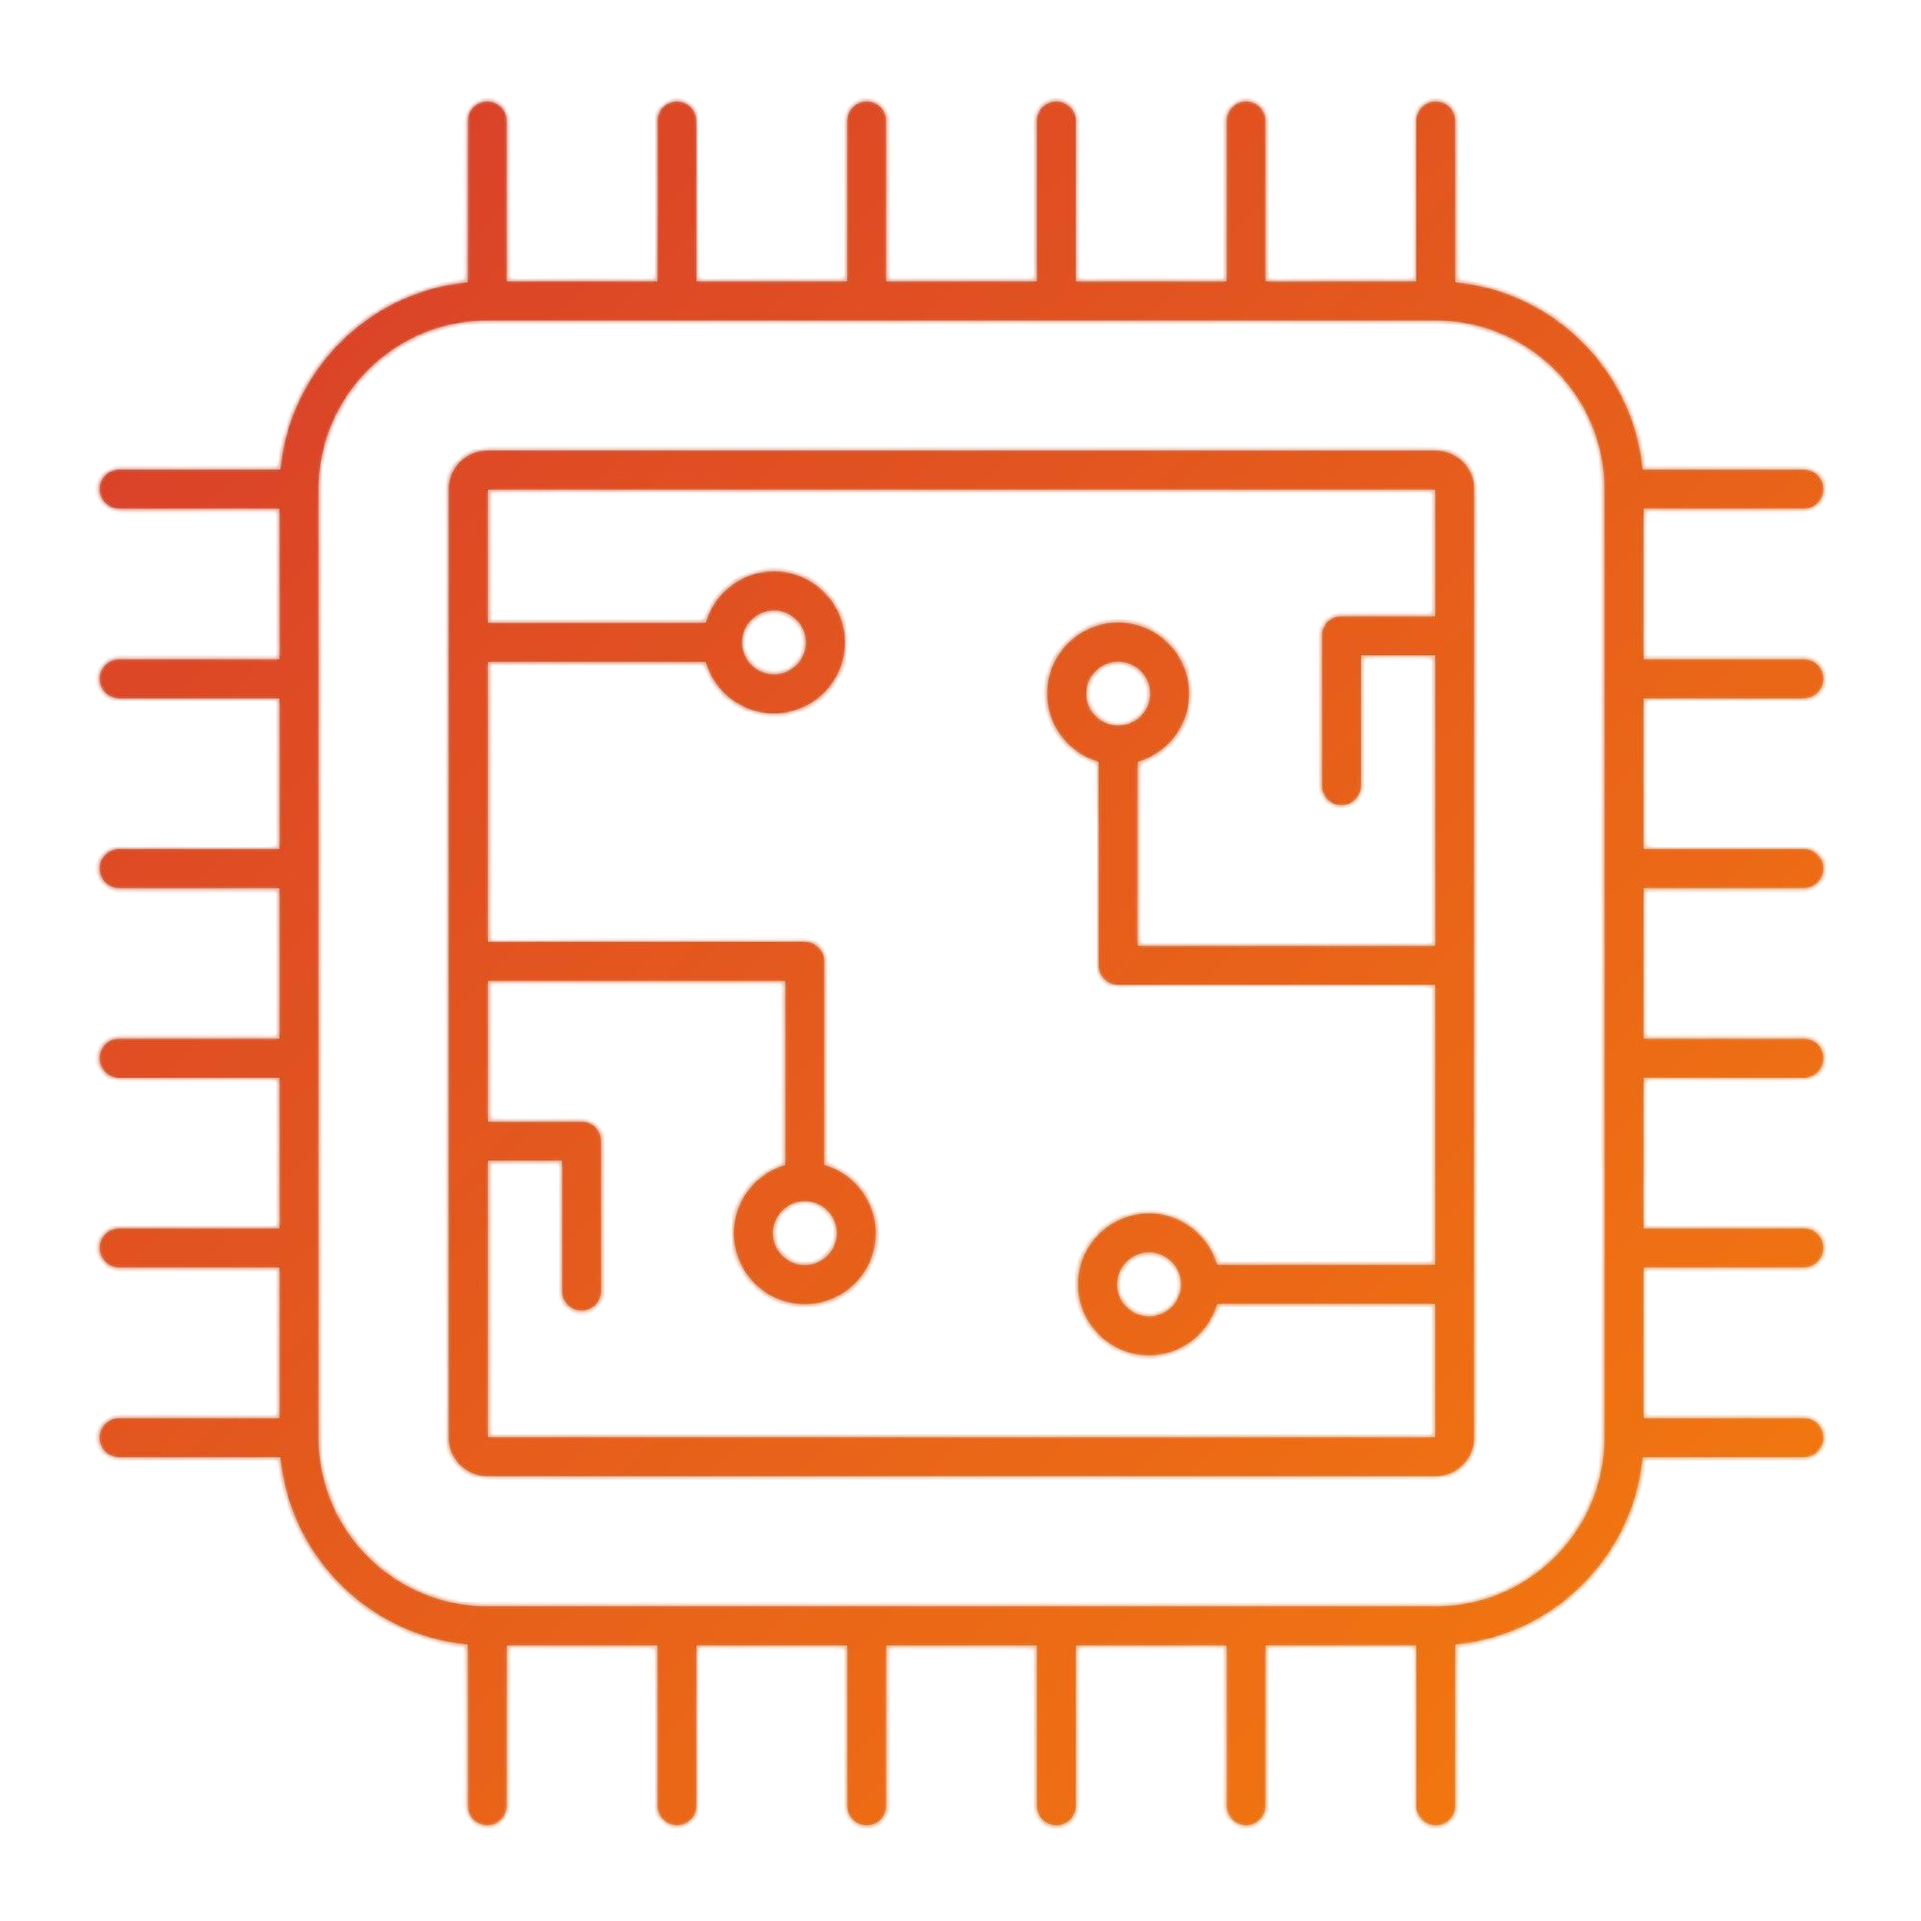
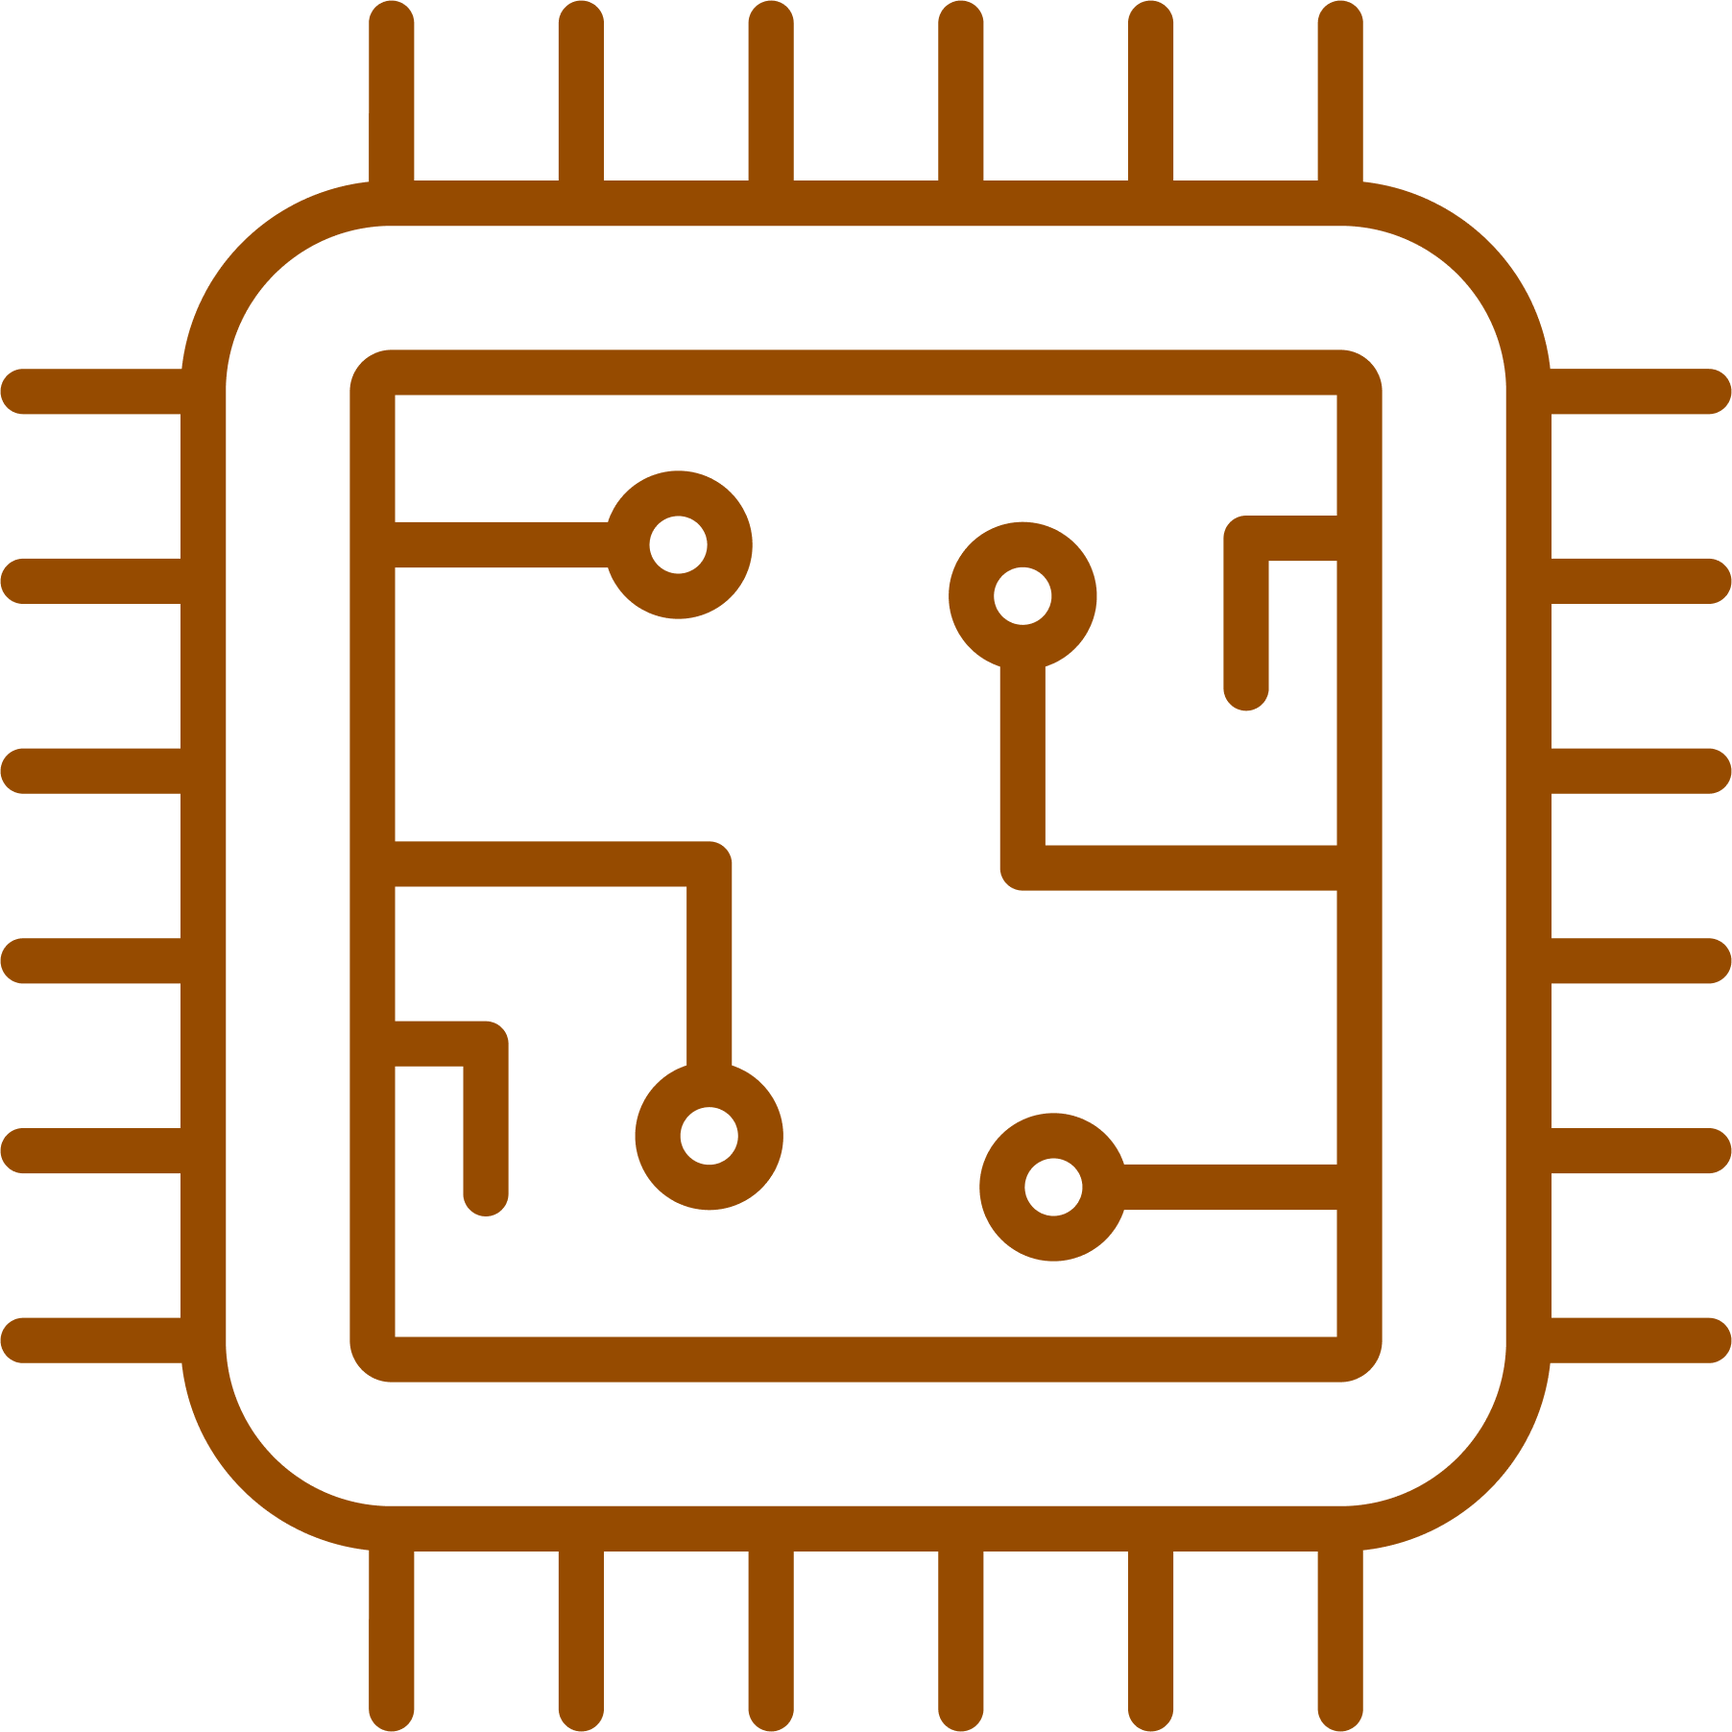
five commit

diff --git a/src/app/compoents/Offering.jsx b/src/app/compoents/Offering.jsx
@@ -10,14 +10,18 @@ import tools from "../asserts/tools.png"
 const Offering = () => {
   return (
     <div className='container'>
- 
-    <h1 className='text-center'>Our Offering</h1>
+      <center>
+    <h1 className='text-center' style={{borderBottom:'3px solid #964B00', width:'300px'}}>Our Innovations</h1>
+    </center>
+    <br/>
+    <br/>
        
         <div className='grid-container-home'> 
             <div className='grid-items-home'>
               <div>
+                <br/>
                 <Image className='mx-auto d-block' src={Embedded} style={{width:'30%', height:'auto'}}/>
-              <h5 className='text-center'>Embedded Product</h5>
+              <h5 className='text-center p-3'>Embedded Product</h5>
 
               <ul>
   <li>Intelligence Algorithm development</li>
@@ -28,7 +32,6 @@ const Offering = () => {
 <div class="d-flex justify-content-center">
   <button class="navbtn" type="submit">&nbsp;Know More&nbsp;</button>
 </div>
-
               </div>
               </div>
 
@@ -36,8 +39,9 @@ const Offering = () => {
 
             <div className='grid-items-home'>
               <div>
+                <br/>
               <Image className='mx-auto d-block' src={datascience} style={{width:'30%', height:'auto'}}/>
-              <h5 className='text-center'>Data Science and Analytics</h5>
+              <h5 className='text-center p-3'>Data Science and Analytics</h5>
               <ul>
   <li>Data Acquisition & Ingestion</li>
   <li>Data Modeling, Staging and Warehousing</li>
@@ -52,8 +56,9 @@ const Offering = () => {
               </div>
             <div className='grid-items-home'>
               <div>
+                <br/>
               <Image className='mx-auto d-block' src={ai} style={{width:'30%', height:'auto'}}/>
-              <h5 className='text-center'>AI and Computer Vision</h5>
+              <h5 className='text-center p-3'>AI and Computer Vision</h5>
               <ul>
   <li>Data Acquisition & Ingestion</li>
   <li>Data Modeling, Staging and Warehousing</li>
@@ -69,7 +74,8 @@ const Offering = () => {
               </div>
             <div className='grid-items-home'>
               <div>
-              <Image className='mx-auto d-block' src={tools} style={{width:'30%', height:'auto'}}/>
+                <br/>
+              <Image className='mx-auto d-block p-3' src={tools} style={{width:'30%', height:'auto'}}/>
               <h5 className='text-center'>Tools and Automation </h5>
               <ul>
   <li>Data Management Framework</li>
@@ -86,7 +92,8 @@ const Offering = () => {
               </div>
             <div className='grid-items-home'>
               <div>
-              <Image className='mx-auto d-block' src={verification} style={{width:'30%', height:'auto'}}/>
+                <br/>
+              <Image className='mx-auto d-block p-3' src={verification} style={{width:'30%', height:'auto'}}/>
               <h5 className='text-center'>Verification and validation</h5>
               <ul>
   <li>Test bench development</li>
@@ -104,8 +111,9 @@ const Offering = () => {
               </div>
             <div className='grid-items-home'> 
               <div>
+                <br/>
               <Image className='mx-auto d-block' src={title} style={{width:'30%', height:'auto'}}/>
-              <h5 className='text-center'>mortgage / title insurance service</h5>
+              <h5 className='text-center p-3'>mortgage / title insurance service</h5>
 
               <ul>
   <li>Home loan origination and processing</li>

diff --git a/src/app/compoents/Blogs.jsx b/src/app/compoents/Blogs.jsx
@@ -9,6 +9,7 @@ const Blogs = () => {
   const [blogs, setBlogs] = useState([]);
   const [loading, setLoading] = useState(true);
   const [error, setError] = useState(null);
+  let sliderRef = React.createRef();
 
   useEffect(() => {
     const fetchBlogs = async () => {
@@ -33,49 +34,74 @@ const Blogs = () => {
     return <p>Error: {error}</p>;
   }
 
-  const NextArrow = (props) => {
-    const { onClick } = props;
+  const NextArrow = () => {
     return (
-      <div className="arrow next" onClick={onClick}>
-        <MdKeyboardArrowRight />
-      </div>
+      <MdKeyboardArrowRight
+        className="slick-arrow"
+        style={{ display: 'block', color: '#964b00', fontSize: '40px' }}
+        onClick={() => sliderRef.slickNext()}
+      />
     );
   };
 
-  const PrevArrow = (props) => {
-    const { onClick } = props;
+  const PrevArrow = () => {
     return (
-      <div className="arrow prev" onClick={onClick}>
-        <MdKeyboardArrowLeft />
-      </div>
+      <MdKeyboardArrowLeft
+        className="slick-arrow"
+        style={{ display: 'block', color: '#964b00', fontSize: '40px' }}
+        onClick={() => sliderRef.slickPrev()}
+      />
     );
   };
 
   const settings = {
-    dots: true,
     infinite: true,
     speed: 500,
-    slidesToShow: 3,
+    slidesToShow: 4,
     slidesToScroll: 1,
     autoplay: true,
     autoplaySpeed: 3000,
-    nextArrow: <NextArrow />,
-    prevArrow: <PrevArrow />,
+   
   };
 
   return (
     <div>
-      <h1>Blogs</h1>
-      <Slider {...settings}>
-        {blogs.map((blog, index) => (
-          <div key={index}>
-            <Image src={blog.img} width={300} height={200} alt="Blog Logo" />
-            <div>
-              <h5>{blog.title}</h5>
-              <p>{blog.description}</p>
-            </div>
-          </div>
-        ))}
+      <div className='d-flex justify-content-between align-items-center p-3'>
+        <h1>Blogs</h1>
+        <div className='d-flex'>
+          <PrevArrow />
+          <NextArrow />
+        </div>
+      </div>
+      <Slider ref={c => (sliderRef = c)} {...settings}>
+      {blogs.map((blog, index) => (
+  <div 
+    key={index} 
+    style={{
+      borderRadius: '12px',
+      padding: '12px',
+      boxShadow: '5px 5px 10px #c3c3c3, -5px -5px 10px #fdfdfd',
+      margin: '10px 10px !important' // Adding margin to create a gap between the divs
+    }}>
+    <img 
+      src={blog.img} 
+      style={{
+        width: '100%', 
+        height: 'auto', 
+        objectFit: 'cover', 
+        borderTopLeftRadius: '12px', 
+        borderTopRightRadius: '12px'
+      }} 
+      alt="Blog Logo" 
+    />
+    <div>
+      <h5>{blog.title}</h5>
+      <p>{blog.description}</p>
+    </div>
+  </div>
+))}
+
+        
       </Slider>
     </div>
   );

diff --git a/src/app/compoents/HeroSection.jsx b/src/app/compoents/HeroSection.jsx
@@ -1,3 +1,4 @@
+"use client"
 import Image from 'next/image';
 import React from 'react';
 import aiimage from "../asserts/Digitalidentity.png"
@@ -17,30 +18,51 @@ const HeroSection = () => {
     <>
     
     <div className="video">
-      <video src='/car.mp4' muted autoPlay loop className='videoplayer'></video>
-      
-         <div className='container sec'>
-          <br/>
-          <br/>
-          <div className='row  d-flex justify-content-start align-items-start'>
+  <video src="/car.mp4" muted autoPlay loop className="videoplayer"></video>
+  <div className="text-overlay">
+    <p className="title">BROWN EDGE TECHNOLOGY PVT LTD</p>
+    <p className="subtitle">Revolutionizing Smart Mobility with Cutting-Edge Engineering Solutions</p>
+  </div>
+</div>
 
-            <div className='col-md-6 d-flex justify-content-end align-items-start'>
-              <div>
-             <p style={{color:'#FFF', fontWeight:'500'}}>BROWN EDGE TECHNOLOGY PVT LTD</p>
-             <p style={{color:'#FFF', fontWeight:'700', fontSize:'35px'}}>Revolutionizing Smart Mobility with Cutting-Edge Engineering Solutions</p>
-             </div>
-            </div>
-         <div className='col-md-6'>
-{/* svg comes */}
-         </div>
-          </div>
-          </div>
-   
-    </div>
+<style jsx>{`
+  .video {
+    position: relative;
+    width: 100%;
+    height: auto;
+  }
 
+  .videoplayer {
+    width: 100%;
+    height: 100%;
+    object-fit: cover;
+  }
 
-    <br/>
-    <br/>
+  .text-overlay {
+    position: absolute;
+    top: 50%;
+    left: 50%;
+    transform: translate(-50%, -50%);
+    text-align: center;
+    background: rgba(0, 0, 0, 0.5); /* Semi-transparent background for readability */
+    padding: 20px;
+    border-radius: 10px;
+    box-shadow: 0 4px 8px rgba(0, 0, 0, 0.3); /* Shadow for the text container */
+  }
+
+  .title {
+    color: #FFF;
+    font-weight: 500;
+    margin: 0; /* Remove default margin */
+  }
+
+  .subtitle {
+    color: #FFF;
+    font-weight: 700;
+    font-size: 35px;
+    margin: 10px 0 0 0; /* Adjust margin as needed */
+  }
+`}</style>
     
 
 

diff --git a/src/app/globals.css b/src/app/globals.css
@@ -280,14 +280,16 @@ box-shadow:  5px 5px 10px #c3c3c3,
 }
 
 .grid-item1 {
-  background: #f9f9f9; /* Add any background color or styling */
-  padding: 16px; /* Adjust padding as needed */
+  background: #FFF; /* Add any background color or styling */
   border: 1px solid #ddd; /* Optional: add border for better visualization */
   border-radius: 8px; /* Optional: add border radius for rounded corners */
   text-align: left; /* Center-align text within the grid item */
 }
 
-.grid-item h5 {
+.grid-item-text{
+  text-decoration: none;
+  
+  padding: 2px;
   margin-top: 8px; /* Add margin to space out the title from the image */
   color: #333; /* Optional: add color styling for the title */
 }

diff --git a/src/app/blogs/page.jsx b/src/app/blogs/page.jsx
@@ -68,13 +68,13 @@ const BlogPage = () => {
   <div className="grid-container1">
     {blog?.map((item) => (
       <div className="grid-item1" key={item._id}>
-        <Link href="/home">
+        <Link href="/home" style={{textDecoration:'none'}}>
           <img
             className="img-data"
-            src={item.img}
+            src={item.img} style={{borderTopLeftRadius:'8px', borderTopRightRadius:'8px'}}
             alt="image alt data"
           />
-          <h5 style={{textDecoration:'none'}}>{item.title}</h5>
+          <h5 className="grid-item-text" style={{textDecoration:'none'}}>{item.title}</h5>
         </Link>
       </div>
     ))}

diff --git a/src/app/compoents/Navabar.jsx b/src/app/compoents/Navabar.jsx
@@ -145,11 +145,7 @@ const Navbar9 = () => {
                 <NavLink className={pathname=="/contact"?"design":""} href="/contact">Contact Us</NavLink>
               </NavItem>
             </Nav>
-            <form className="d-flex">
-              <Link href="/signIn">
-              <button  className="navbtn" type="submit">&nbsp;Login&nbsp;</button>
-              </Link>
-            </form>
+            
           </Navbar.Collapse>
         </Navbar>
       </Container>

diff --git a/src/app/compoents/Footer.jsx b/src/app/compoents/Footer.jsx
@@ -134,7 +134,6 @@ export const Footer = () => {
             </ul>
           </div>
           
-
           <div className="col-md-3 col-sm-6">
             <h5>Solution</h5>
             <ul className="list-unstyled">
